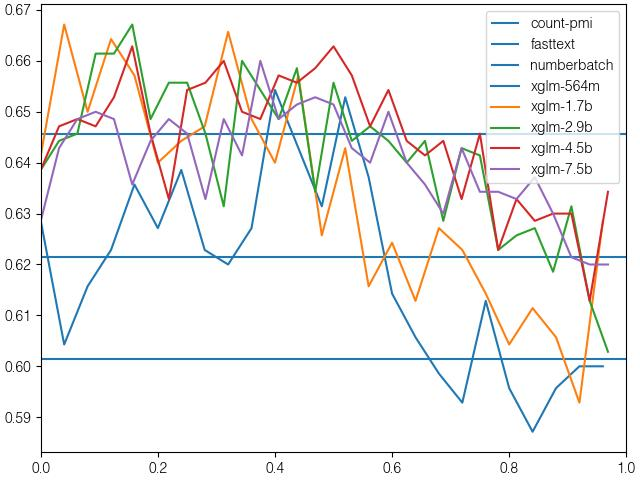
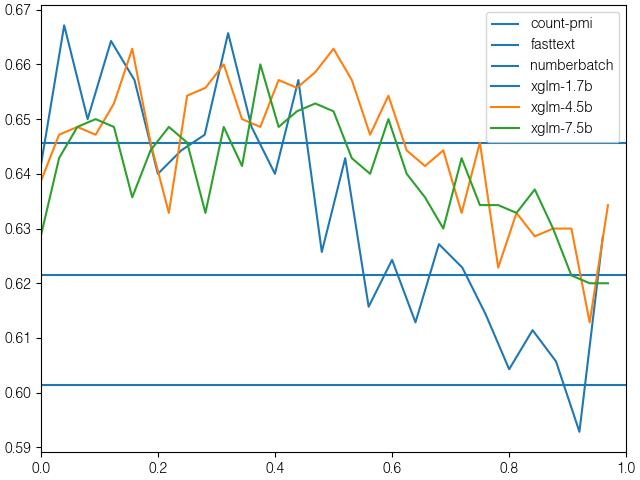
added layers

diff --git a/plot_layer_by_layer.py b/plot_layer_by_layer.py
@@ -19,6 +19,8 @@ with open('layer_by_layer_overall_results.tsv') as i:
         if l_i == 0:
             continue
         line = l.strip().split('\t')
+        if '564' in line[0] or '2.9' in line[0]:
+            continue
         results[line[0]] = [float(v) for v in line[1:]]
 
 static = ['count-pmi', 'numberbatch', 'fasttext']
